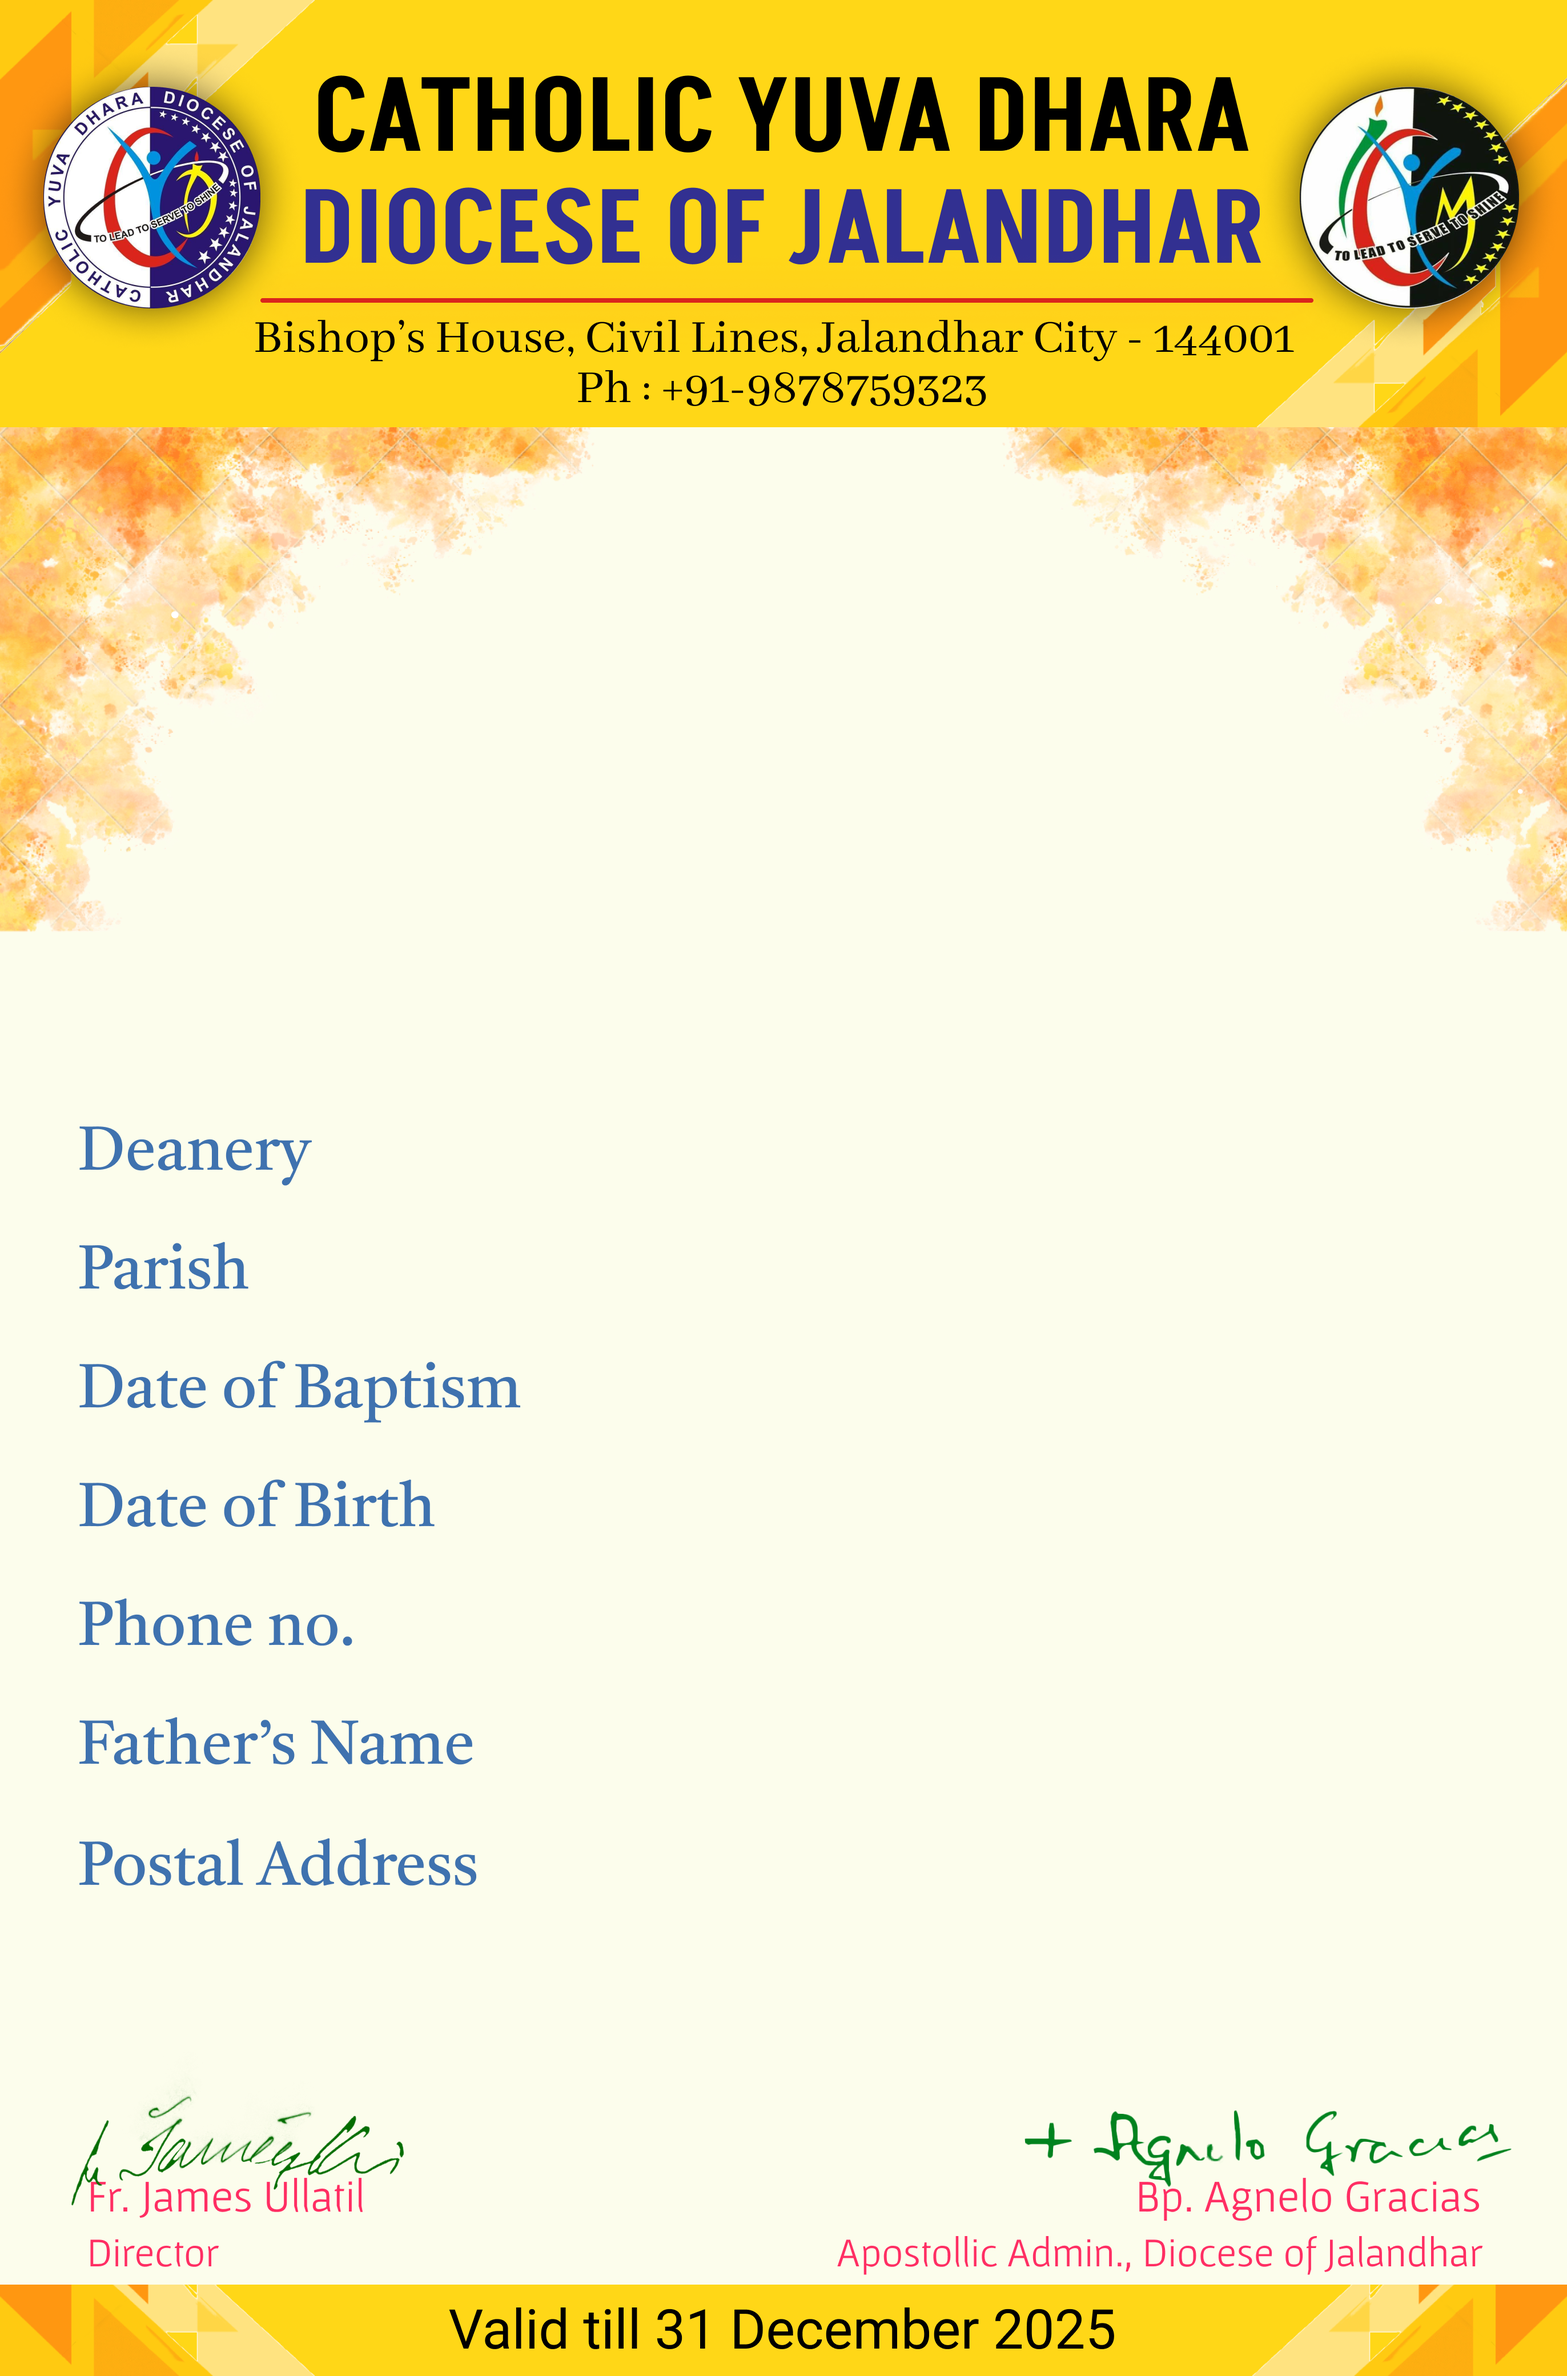
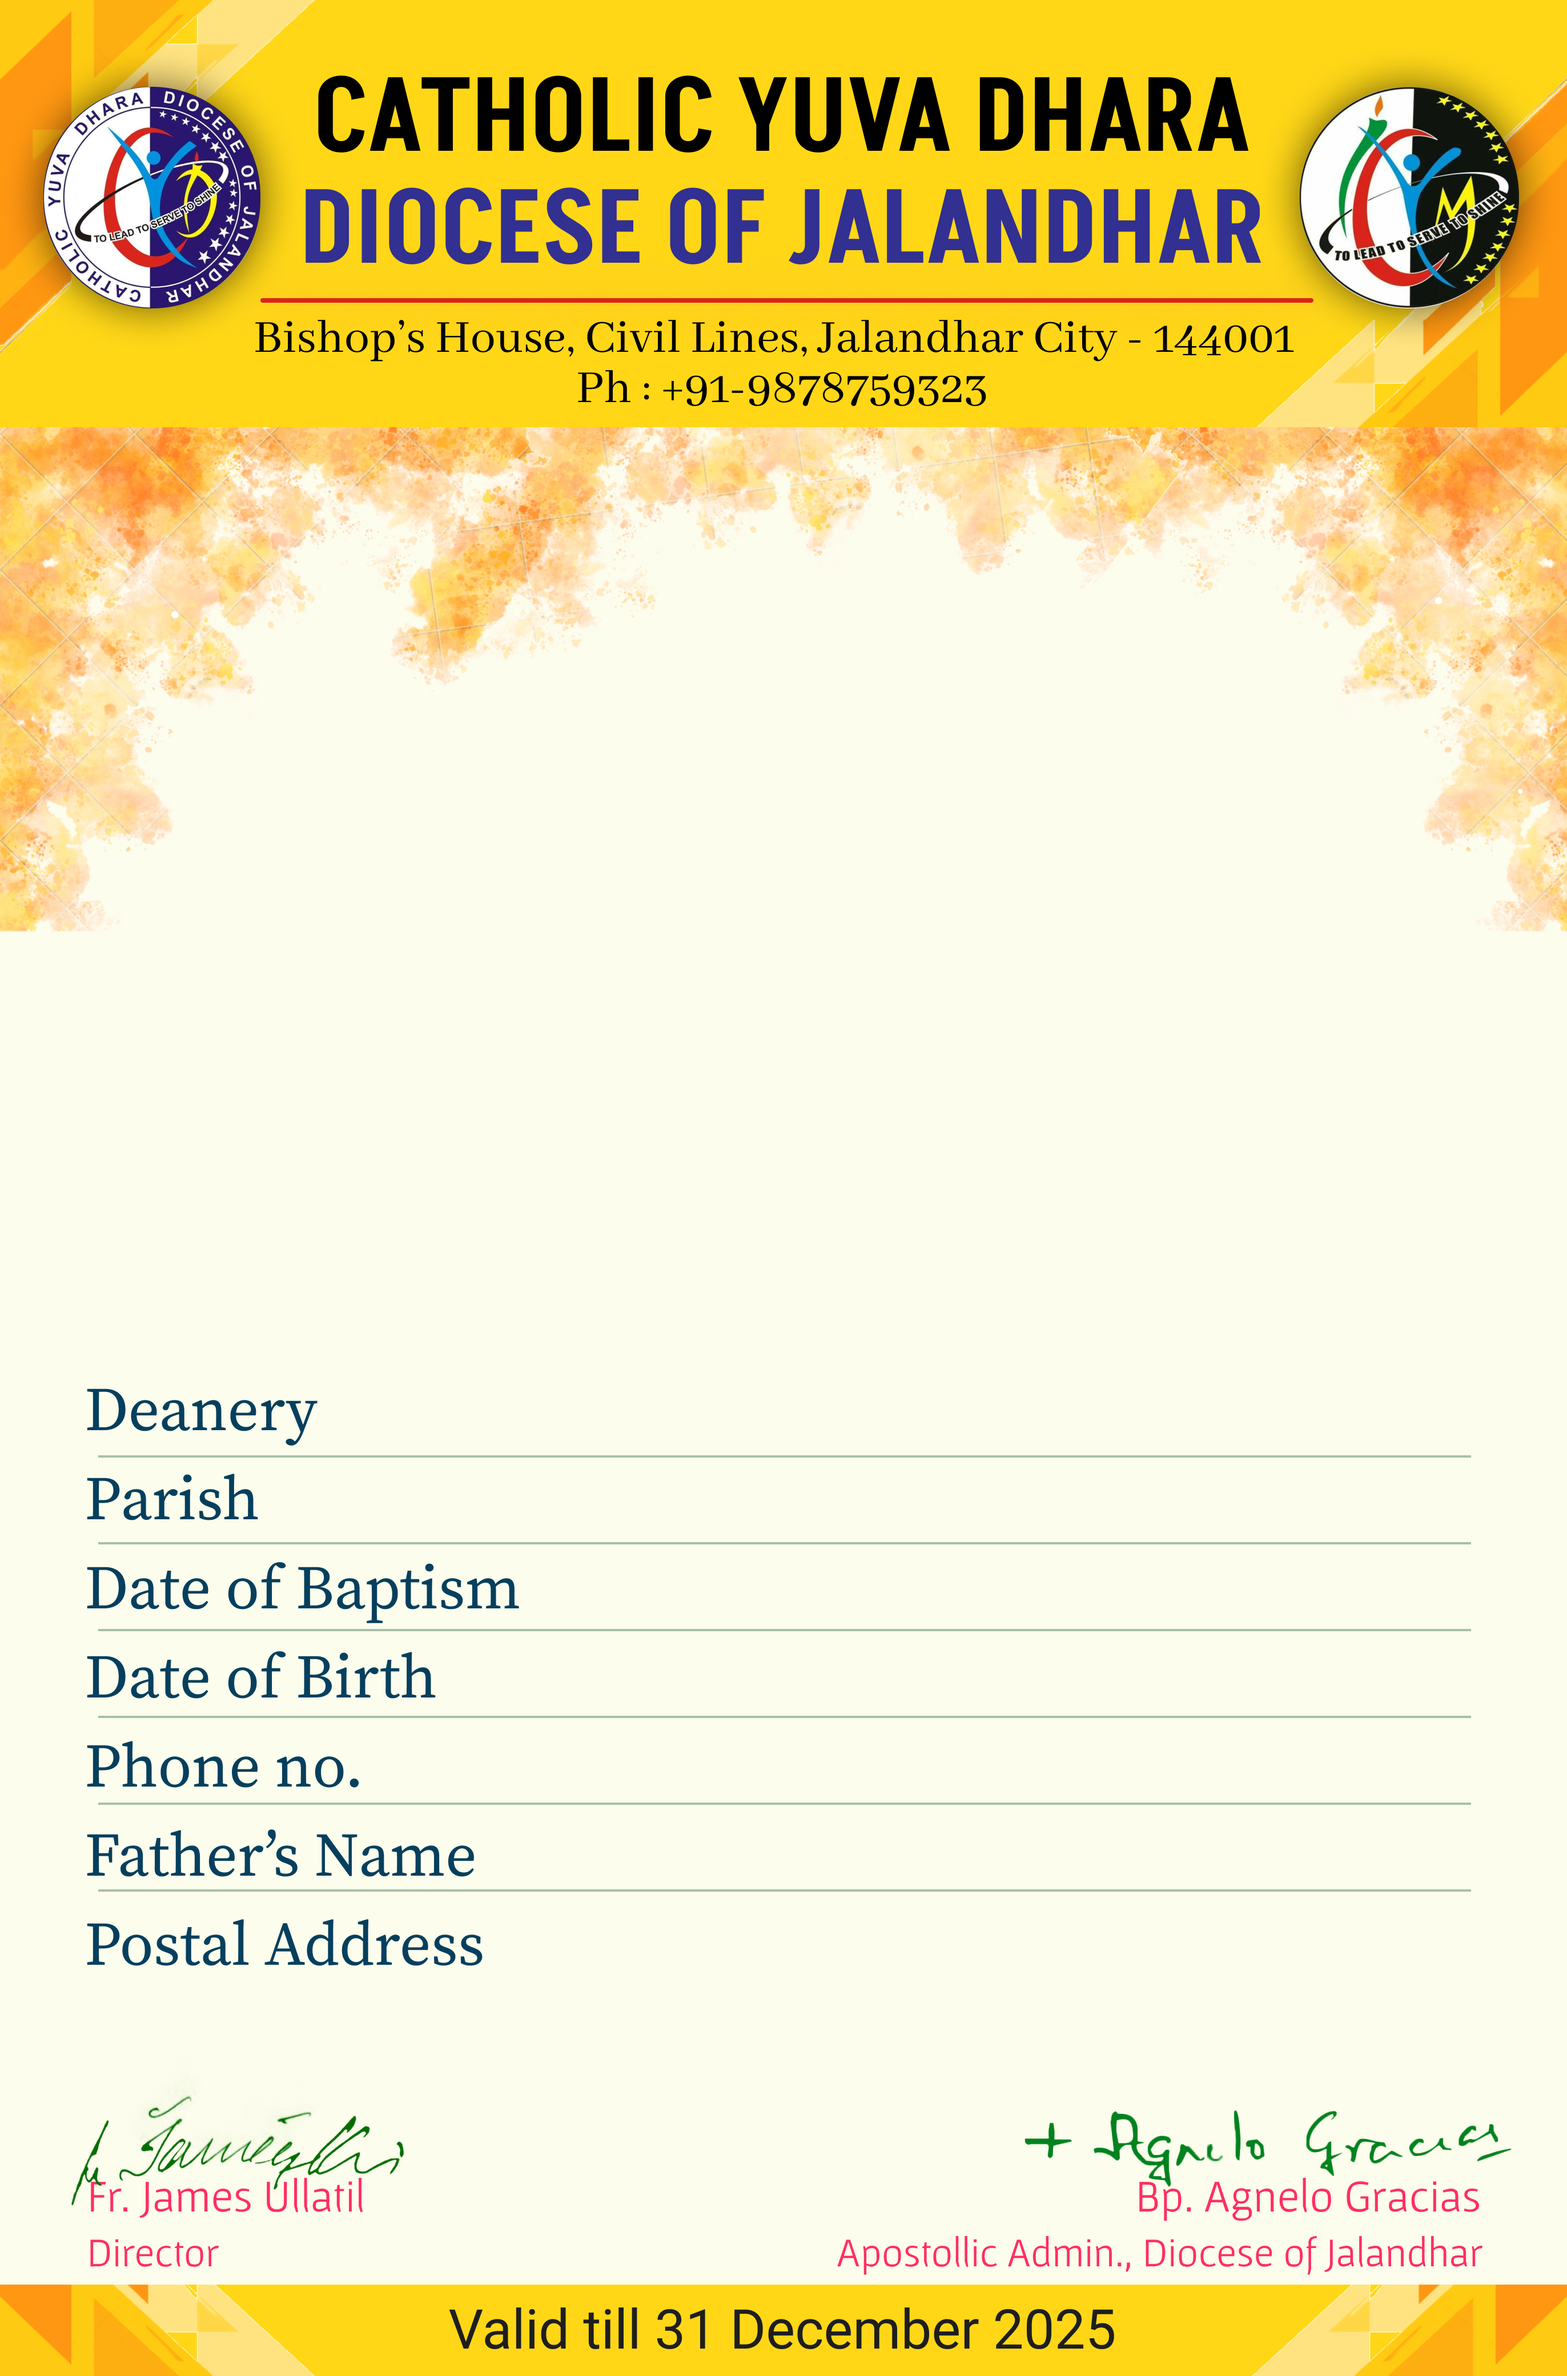
Layout Adjustments
Made Avatar Bigger
Compacted Details with margin
optimised code IDCard

diff --git a/src/pages/IDCard.jsx b/src/pages/IDCard.jsx
@@ -123,25 +123,26 @@ const IDCard = ({ data }) => {
           style={{
             position: "absolute",
             top: "42.5mm",
-            left: "52.5mm",
-            width: "35mm",
-            height: "40mm",
+            left: "50%",
+            transform: "translateX(-50%)",
+            width: "58mm",
+            height: "67mm",
             border: "1px solid #8D8D8D",
             objectFit: "cover",
-            borderRadius: "2px",
+            borderRadius: "14px",
           }}
         />
         <div
           style={{
             position: "absolute",
-            top: "95mm",
+            top: "121mm",
             left: "50%",
             transform: "translateX(-50%)",
-            fontSize: "24px",
+            fontSize: "16px",
             color: "#C01E2C",
             fontFamily: "Roboto",
             textAlign: "center",
-            width: "80px",
+            width: "2190px",
           }}
         >
           {data.designation}
@@ -149,12 +150,12 @@ const IDCard = ({ data }) => {
         <div
           style={{
             position: "absolute",
-            top: "83.3mm",
+            top: "111.2mm",
             left: "50%",
             transform: "translateX(-50%)",
-            fontSize: "48px",
+            fontSize: "31.5px",
             color: "#C01E2C",
-            fontFamily: "TiroDevanagariHindi-Regular",
+            fontFamily: "Vidaloka",
             textAlign: "center",
             width: "2190px",
           }}
@@ -164,10 +165,11 @@ const IDCard = ({ data }) => {
         <div
           style={{
             position: "absolute",
-            top: "103mm",
-            left: "55mm",
-            fontSize: "30px",
+            top: "128mm",
+            left: "54mm",
+            fontSize: "24.2px",
             fontFamily: "Gafata",
+            color: "#000000",
           }}
         >
           : {data.deanery}
@@ -175,10 +177,11 @@ const IDCard = ({ data }) => {
         <div
           style={{
             position: "absolute",
-            top: "107mm",
-            left: "55mm",
-            fontSize: "30px",
+            top: "136.1mm",
+            left: "54mm",
+            fontSize: "24.2px",
             fontFamily: "Gafata",
+            color: "#000000",
           }}
         >
           : {data.parish}
@@ -186,10 +189,11 @@ const IDCard = ({ data }) => {
         <div
           style={{
             position: "absolute",
-            top: "111mm",
-            left: "55mm",
-            fontSize: "30px",
+            top: "144.12mm",
+            left: "54mm",
+            fontSize: "24.2px",
             fontFamily: "Gafata",
+            color: "#000000",
           }}
         >
           : {dayjs(data.date_of_baptism).format("DD-MM-YYYY")}
@@ -197,10 +201,11 @@ const IDCard = ({ data }) => {
         <div
           style={{
             position: "absolute",
-            top: "115mm",
-            left: "55mm",
-            fontSize: "30px",
+            top: "152.4mm",
+            left: "54mm",
+            fontSize: "24.2px",
             fontFamily: "Gafata",
+            color: "#000000",
           }}
         >
           : {dayjs(data.date_of_birth).format("DD-MM-YYYY")}
@@ -208,10 +213,11 @@ const IDCard = ({ data }) => {
         <div
           style={{
             position: "absolute",
-            top: "120mm",
-            left: "55mm",
-            fontSize: "30px",
+            top: "160.68mm",
+            left: "54mm",
+            fontSize: "24.2px",
             fontFamily: "Gafata",
+            color: "#000000",
           }}
         >
           : {data.phone}
@@ -219,10 +225,11 @@ const IDCard = ({ data }) => {
         <div
           style={{
             position: "absolute",
-            top: "126mm",
-            left: "55mm",
-            fontSize: "30px",
+            top: "168.96mm",
+            left: "54mm",
+            fontSize: "24.2px",
             fontFamily: "Gafata",
+            color: "#000000",
           }}
         >
           : {data.father_name}
@@ -230,10 +237,11 @@ const IDCard = ({ data }) => {
         <div
           style={{
             position: "absolute",
-            top: "130mm",
-            left: "55mm",
-            fontSize: "30px",
+            top: "177.24mm",
+            left: "54mm",
+            fontSize: "24.2px",
             fontFamily: "Gafata",
+            color: "#000000",
             width: "35mm",
             whiteSpace: "pre-wrap",
           }}
@@ -243,12 +251,14 @@ const IDCard = ({ data }) => {
         <div
           style={{
             position: "absolute",
-            top: "130mm",
-            left: "56mm",
-            fontSize: "30px",
+            top: "177.5mm",
+            left: "56.9mm",
+            fontSize: "24.2px",
             fontFamily: "Gafata",
-            width: "35mm",
+            color: "#000000",
+            width: "82mm",
             whiteSpace: "pre-wrap",
+            lineHeight: "96.5%"
           }}
         >
           {data.postal_address}

diff --git a/src/index.css b/src/index.css
@@ -1,9 +1,9 @@
 @import url('https://fonts.googleapis.com/css2?family=Gafata&display=swap');
 @import url('https://fonts.googleapis.com/css2?family=Gafata&family=Roboto:ital,wght@0,100;0,300;0,400;0,500;0,700;0,900;1,100;1,300;1,400;1,500;1,700;1,900&display=swap');
-
+@import url('https://fonts.googleapis.com/css2?family=Vidaloka&display=swap');
 body {
   margin: 0;
-  font-family: 'Gafata', -apple-system, BlinkMacSystemFont, 'Segoe UI', 'Roboto', 'Oxygen', 'Ubuntu', 'Cantarell', 'Fira Sans', 'Droid Sans', 'Helvetica Neue', sans-serif;
+  font-family: 'Gafata', -apple-system, BlinkMacSystemFont,'Vidaloka', 'Segoe UI', 'Roboto', 'Oxygen', 'Ubuntu', 'Cantarell', 'Fira Sans', 'Droid Sans', 'Helvetica Neue', sans-serif;
   -webkit-font-smoothing: antialiased;
   -moz-osx-font-smoothing: grayscale;
 }
